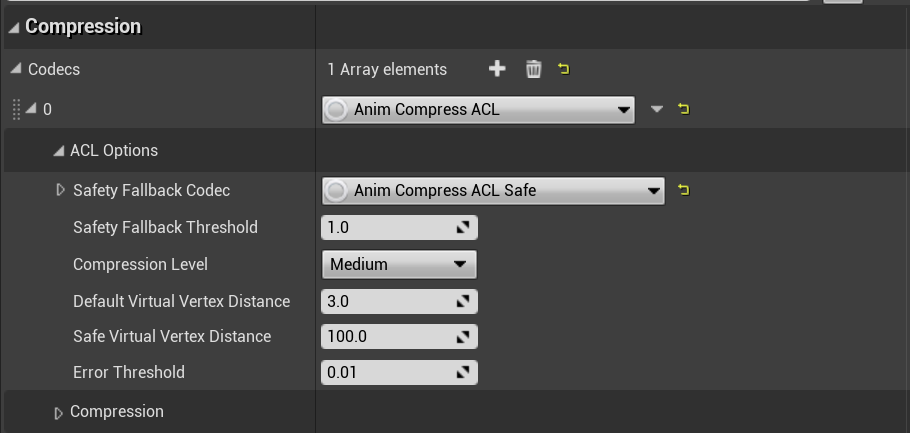
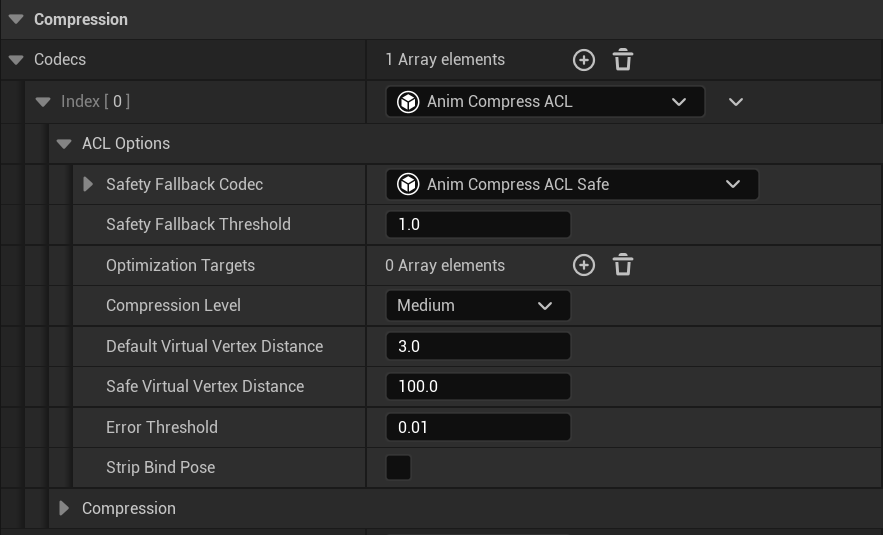
docs: update settings documentation

diff --git a/Docs/README.md b/Docs/README.md
@@ -45,11 +45,7 @@ The compression level dictates how aggressively ACL tries to optimize the memory
 
 Despite the best efforts of ACL, some exotic animation sequences will end up having an unacceptably large error, and when this happens, it will attempt to fall back to safer settings. This should happen extremely rarely if the virtual vertex distances are properly tuned. In order to control this behavior, a threshold is provided to control when it kicks in (the behavior can be disabled if you set the threshold to **0.0**). As ACL improves over time, the fallback might become obsolete.
 
-![Bind Pose Options](Images/BindPoseSettings_Default.png)
-
-**Bind pose options are EXPERIMENTAL, see below**
-
-Animation sequences, when compressed, are fully independent. They contain everything needed to be able to be decompressed in order to reconstruct (approximately) the original animation. This can lead to a lot of redundant information being stored when many animations reference a single skeleton. By design, Unreal Engine forces codecs to retain compressed data for joints that aren't animated even if they are equal to the bind pose. ACL offers an option to strip this redundant data as it can be reconstructed fromm the skeleton at runtime. Depending on the data, this can save up to **2-5%** on the overall memory footprint. However, there is a caveat: **only bones not individually decompressed at runtime can be stripped**. Generally speaking, only the root bone is individually decompressed at runtime and through normal blending operations the whole pose is decompressed as a whole. When the whole pose is decompressed, Unreal Engine pre-fills the output pose buffer with the bind pose which is what allows ACL to strip this data. Sadly the same isn't currently possible when individual bones are decompressed. As such, their value cannot be reconstructed at runtime if it is stripped (outside the editor). If this happens, an error will be shown in the log in non-shipping cooked builds. If you see this error, you will have to find the offending bone and add it to the exclusion list (the root bone is automatically excluded). Note that ACL caches the bind pose for every animation sequence in the editor to be able to safely reconstruct stripped values.
+Animation sequences, when compressed, are fully independent. They contain everything needed to be able to be decompressed in order to reconstruct (approximately) the original animation. This can lead to a lot of redundant information being stored when many animations reference a single skeleton. By design, Unreal Engine forces codecs to retain compressed data for joints that aren't animated even if they are equal to the bind pose. ACL offers an option to strip this redundant data as it can be reconstructed from the skeleton at runtime. Depending on the data, this can save up to **2-5%** on the overall memory footprint. However, there is a caveat: **only bones not individually decompressed at runtime can be stripped**. Generally speaking, only the root bone is individually decompressed at runtime and through normal blending operations the whole pose is decompressed as a whole. When the whole pose is decompressed, Unreal Engine pre-fills the output pose buffer with the bind pose which is what allows ACL to strip this data. Sadly the same isn't possible when individual bones are decompressed prior to UE 5.1 (see [this pull request](https://github.com/EpicGames/UnrealEngine/pull/9482)). As such, their value cannot be reconstructed at runtime if it is stripped (outside the editor). For this reason, ACL only exposes this feature starting with UE 5.1. If you wish to enable it in an earlier version, use the pull request above as a guide and search the plugin code for `ACL_WITH_BIND_POSE_STRIPPING` to enable it.
 
 Note that while stripping the bind pose generally leads to a smaller memory footprint with no loss of visual quality, some exotic clips can end up with either a higher error or a higher memory footprint. As such, it is recommended to include the normal ACL codec as part of the settings asset so that both codecs can be tried in parallel. The Unreal Engine heuristic will safely pick the best. A future version of ACL may improve on this to avoid such scenarios.
 
